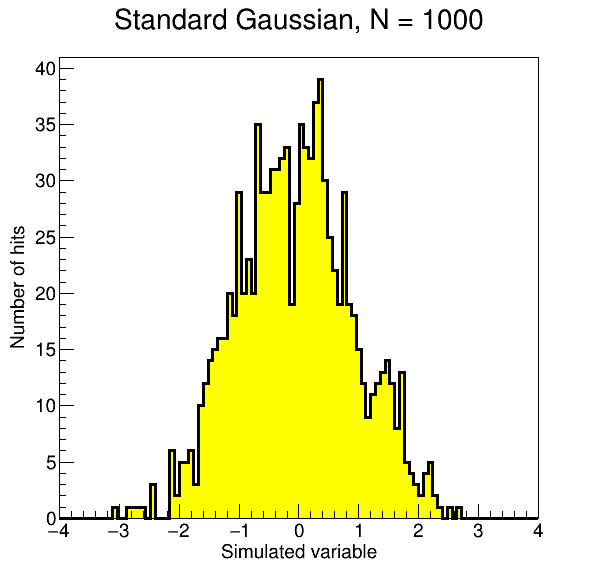
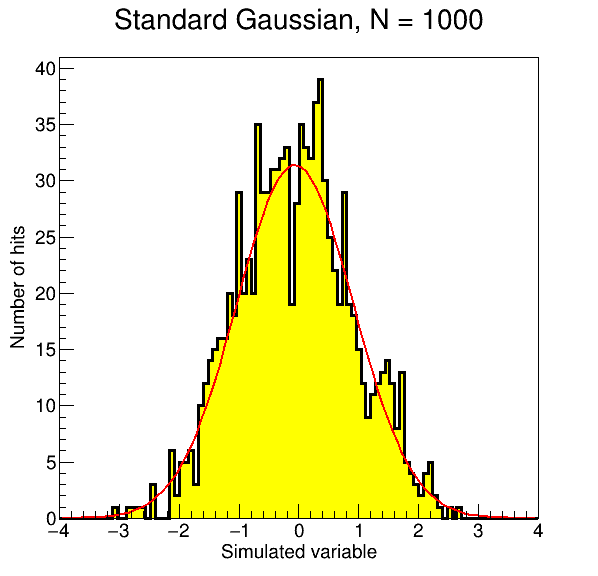
Updating exercise

diff --git a/Ex6/Stadnitski/Ex06-02/graph.C b/Ex6/Stadnitski/Ex06-02/graph.C
@@ -1,8 +1,8 @@
 void graph()
 {
 //=========Macro generated from canvas: Canvas/
-//=========  (Wed Mar  1 23:19:47 2023) by ROOT version 6.24/06
-   TCanvas *Canvas = new TCanvas("Canvas", "",102,109,600,600);
+//=========  (Thu Mar  2 11:00:42 2023) by ROOT version 6.24/06
+   TCanvas *Canvas = new TCanvas("Canvas", "",0,0,600,600);
    Canvas->SetHighLightColor(2);
    Canvas->Range(0,0,1,1);
    Canvas->SetFillColor(0);
@@ -78,6 +78,30 @@ void graph()
    hist__1->SetBinContent(84,1);
    hist__1->SetEntries(1000);
    hist__1->SetStats(0);
+   
+   TF1 *gaus1 = new TF1("gaus","gaus",-4,4, TF1::EAddToList::kNo);
+   gaus1->SetFillColor(19);
+   gaus1->SetFillStyle(0);
+   gaus1->SetLineColor(2);
+   gaus1->SetLineWidth(2);
+   gaus1->SetChisquare(54.09265);
+   gaus1->SetNDF(62);
+   gaus1->GetXaxis()->SetLabelFont(42);
+   gaus1->GetXaxis()->SetTitleOffset(1);
+   gaus1->GetXaxis()->SetTitleFont(42);
+   gaus1->GetYaxis()->SetLabelFont(42);
+   gaus1->GetYaxis()->SetTitleFont(42);
+   gaus1->SetParameter(0,31.3757);
+   gaus1->SetParError(0,1.298175);
+   gaus1->SetParLimits(0,0,0);
+   gaus1->SetParameter(1,-0.06715965);
+   gaus1->SetParError(1,0.03325555);
+   gaus1->SetParLimits(1,0,0);
+   gaus1->SetParameter(2,0.9766719);
+   gaus1->SetParError(2,0.02733144);
+   gaus1->SetParLimits(2,0,9.612673);
+   gaus1->SetParent(hist__1);
+   hist__1->GetListOfFunctions()->Add(gaus1);
    hist__1->SetFillColor(5);
    hist__1->SetLineWidth(3);
    hist__1->GetXaxis()->SetTitle("Simulated variable");

diff --git a/Ex6/Stadnitski/Ex06-02/MakePlot.py b/Ex6/Stadnitski/Ex06-02/MakePlot.py
@@ -27,6 +27,7 @@ def main():
     hist.GetYaxis().SetTitle('Number of hits')
     hist.GetYaxis().CenterTitle(True)
 
+    hist.Fit('gaus')
     hist.SetStats(0)
     hist.Draw()
 
